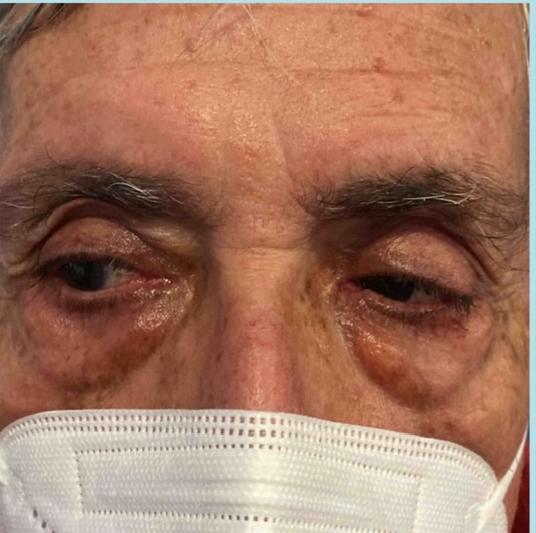
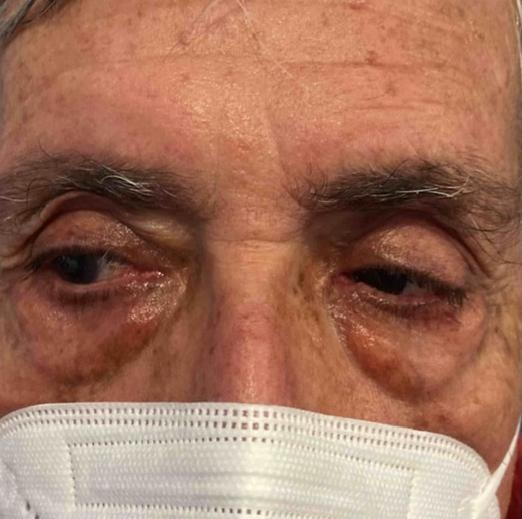
2023.03.09:17.14

diff --git a/Con estrabismo/crop_photos.py b/Con estrabismo/crop_photos.py
@@ -1,7 +1,7 @@
 from PIL import Image
 
 # Load the image
-photo = 1713
+photo = 1416
 image = Image.open('Con estrabismo\IMG_{}.JPG'.format(photo))
 bbox = (34, 34, 1642, 1633)
 # Crop the sub-image
@@ -11,6 +11,7 @@ image = image.crop(bbox)
 sub_image_width = image.width // 3
 sub_image_height = image.height // 3
 
+margin = 7
 # Loop over each row and column in the grid
 for row in range(3):
     for col in range(3):
@@ -19,7 +20,7 @@ for row in range(3):
         upper = row * sub_image_height
         right = (col + 1) * sub_image_width
         lower = (row + 1) * sub_image_height
-        bbox = (left, upper, right, lower)
+        bbox = (left+margin, upper+margin, right-margin, lower-margin)
         
         # Crop the sub-image
         sub_image = image.crop(bbox)
